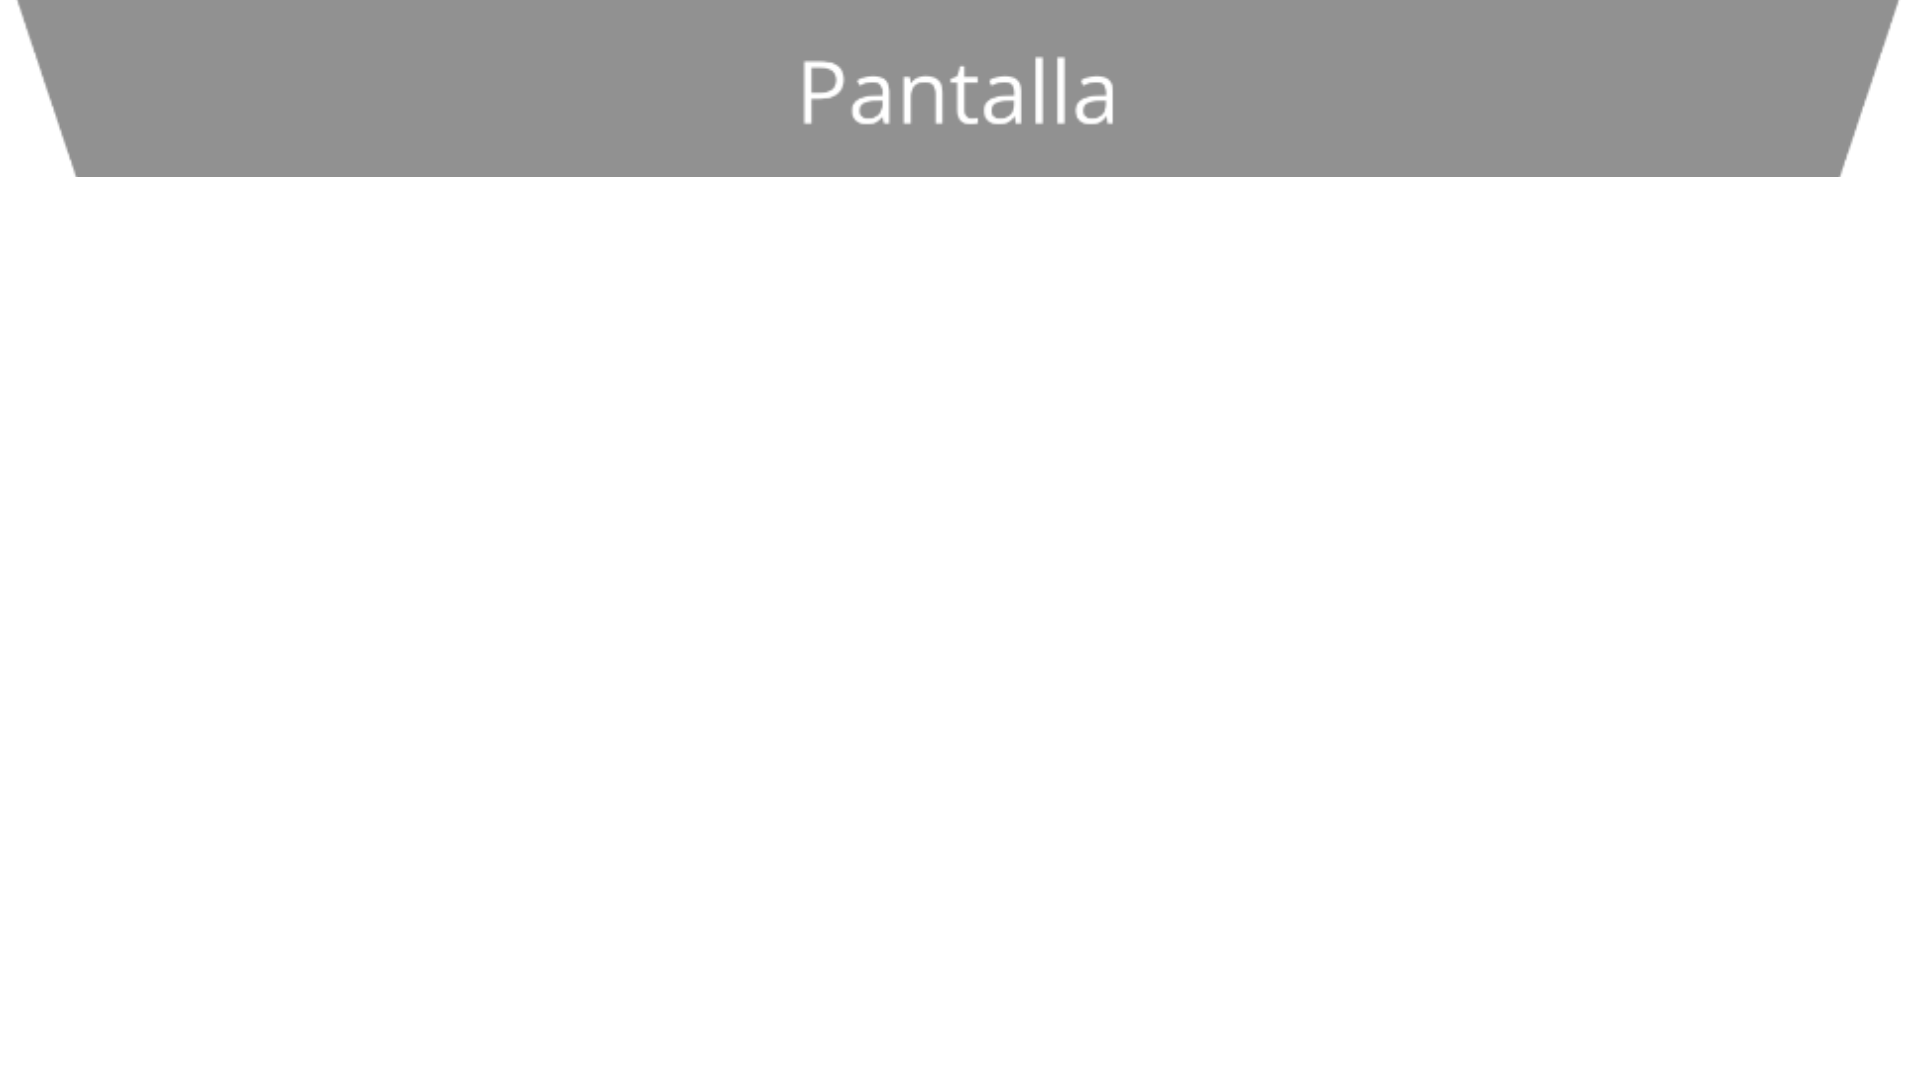
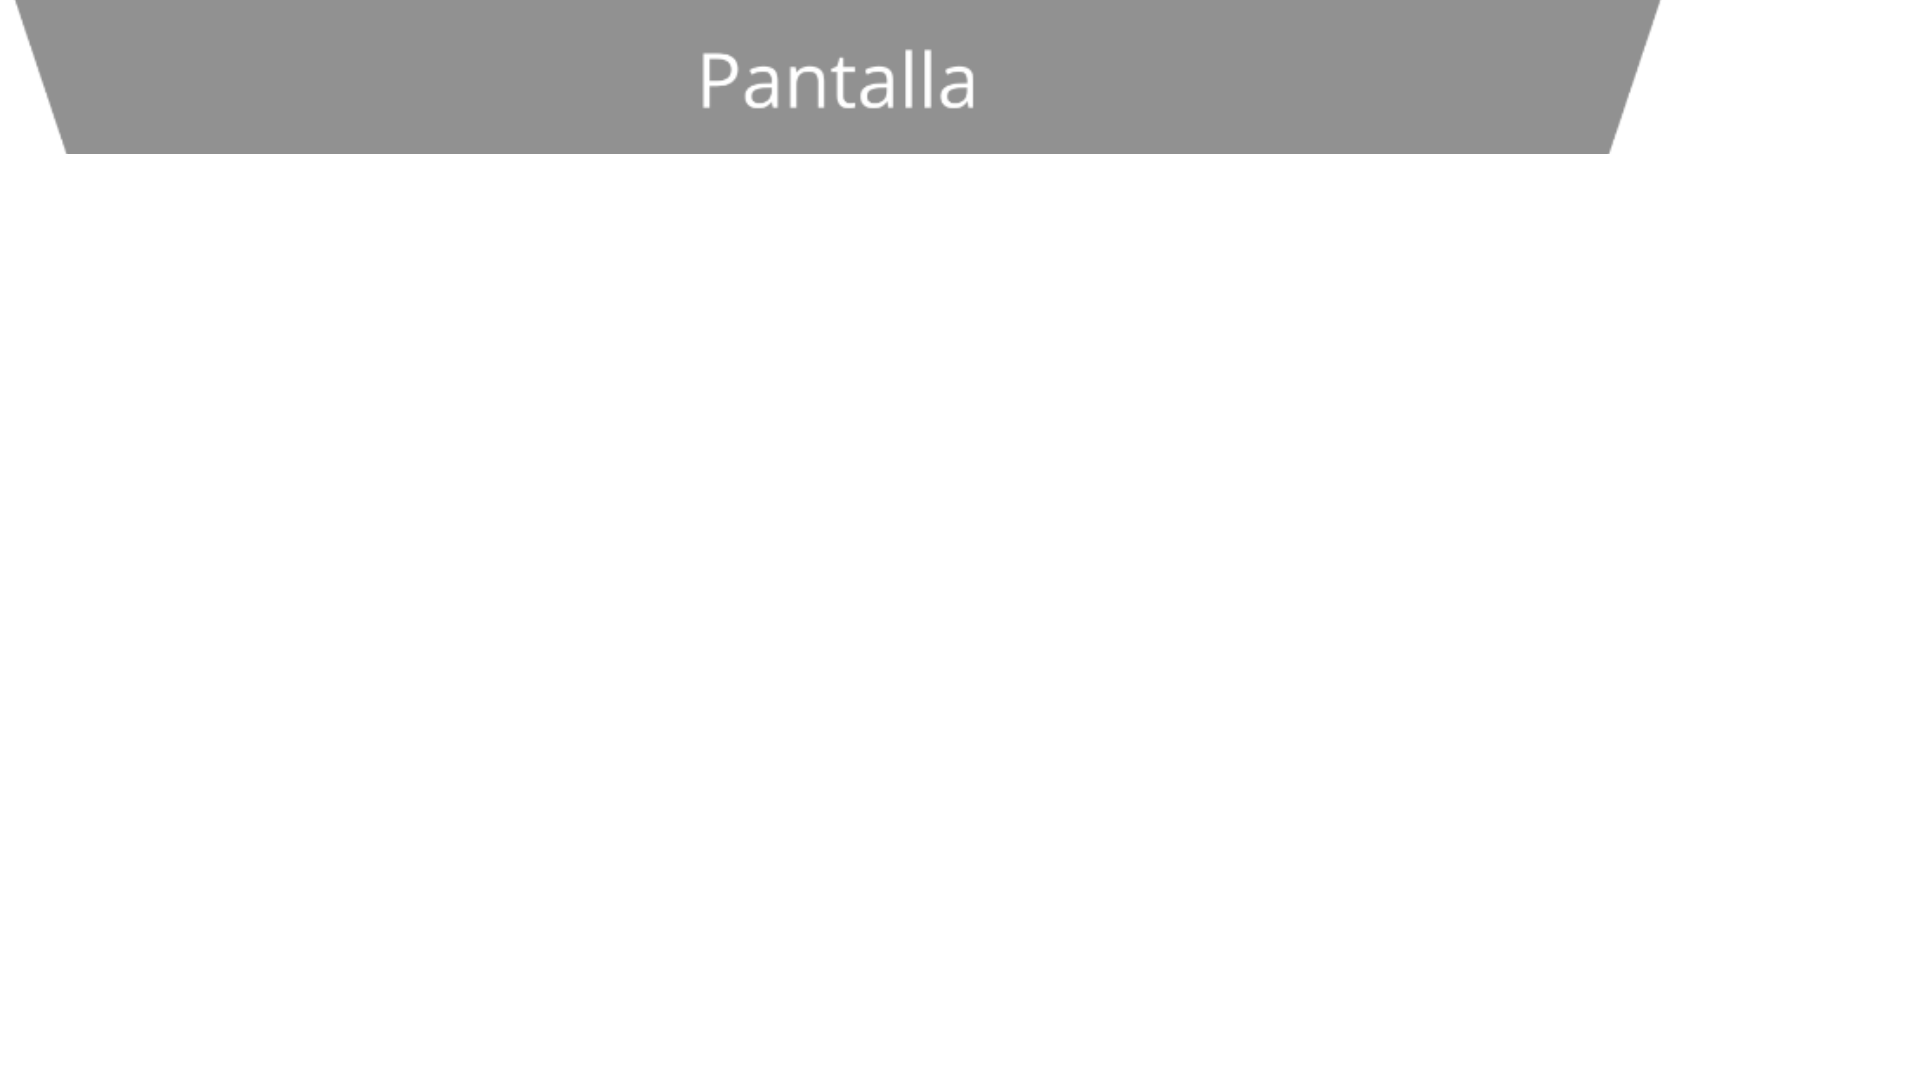
update

Changed region(s): [[0.0312, 0.0, 1.0, 0.1833]]

diff --git a/src/app.py b/src/app.py
@@ -123,7 +123,7 @@ def openheimer(session_state):
     # Custom HTML/CSS for the banner
     custom_html = """
     <div class="banner">
-        <img src="https://raw.githubusercontent.com/alexrosado5/TR_cine/main/assets/Banner.png" alt="Banner Image">
+        <img src="https://raw.githubusercontent.com/alexrosado5/TR_cine/main/assets/Pantalla%20cine.png" alt="Banner Image">
     </div>
     <style>
         .banner {
@@ -139,10 +139,8 @@ def openheimer(session_state):
     """
     # Display the custom HTML
     st.components.v1.html(custom_html)
-    image3 = "../assets/Pantalla cine.png"
     st.write("")
     st.write("")
-    st.image(image3, width=800)
     st.write("")
 
     col1, col2, col3, col4, col5, col6, col7, col8 = st.columns(8)
